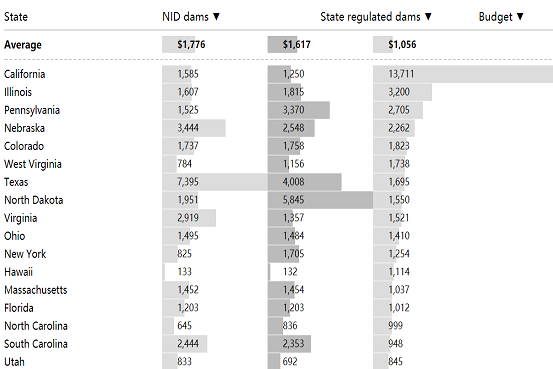
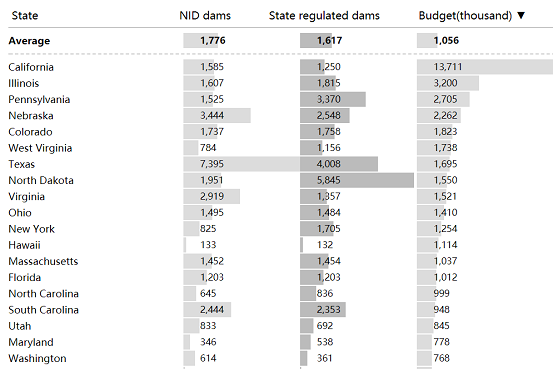
fix

diff --git a/portfolio/Missouri hidden dams/experiment - Copy.html b/portfolio/Missouri hidden dams/experiment - Copy.html
@@ -55,6 +55,7 @@
 * Includes: jquery.ui.core.css, jquery.ui.resizable.css, jquery.ui.selectable.css, jquery.ui.accordion.css, jquery.ui.autocomplete.css, jquery.ui.button.css, jquery.ui.datepicker.css, jquery.ui.dialog.css, jquery.ui.menu.css, jquery.ui.progressbar.css, jquery.ui.slider.css, jquery.ui.spinner.css, jquery.ui.tabs.css, jquery.ui.tooltip.css
 * Copyright 2013 jQuery Foundation and other contributors Licensed MIT */
 
+
 .g-table {
   margin: 6px 10px 20px 10px;
   font: 11px/15px sans-serif;
@@ -120,7 +121,8 @@ transition: top .5s ease;
 }
 
 .g-table-bar {
-position: absolute;
+position: relative;
+width:100%;
 height: 100%;
 background: rgba(120,120,120,.5);
 }
@@ -159,7 +161,7 @@ color: #000;
 .g-table-body:not(:last-of-type) {
 border-bottom: dashed 1px #ccc;
 }
-.g-table-column-ascending:after,
+/*.g-table-column-ascending:after,
 .g-table-column-descending:after {
   padding-left: 4px;
 }
@@ -170,9 +172,10 @@ border-bottom: dashed 1px #ccc;
 
 .g-table-column-descending:after {
   content: "\0025BC";
-}
+}*/
 .g-table-cell {
 width: 140px;
+/*width: 25%;*/
 }
 
 .g-table-cell-state {
@@ -182,18 +185,24 @@ width: 210px;
 
 .g-table-cell- {
 width: 320px;
+/*width: 25%;*/
 }
 
 .g-table-cell-Budget {
 width: 320px;
+/*width: 45%;*/
 }
 
 .g-table-cell-NIDdam .g-table-bar,
 .g-table-cell-Budget .g-table-bar {
 background: rgba(185,185,185,.5);
+width: 320px;
+/*width: 30%;*/
 }
+
 .g-instruction {
-margin: 34px 10px 0 0;
+margin: 0 0 0 0;
+margin-bottom: 0;
 font: oblique 11px sans-serif;
 color: #aaa;
 text-align: right;
@@ -492,7 +501,7 @@ p.body {
     <p class="body domine">Missouri has 1457 high-hazard dams last year, leading the nation since 2010. Nearly 1000 of them are unregulated.
 No one is required to inspect or repair them, even if the failure may kill people.
 Missouri dam law exempts the dams that are less than 35 feet tall, agriculture dams and federal-regulated dams. There has been no change in Missouri dam regulation since the 2005 Taum Sauk Dam Failure. Several bills tried to modify the dam safety law to increase the number of regulated dams, but none of them passed. Thus, around 4700 dams remain in limbo.</p>
-    <div class="byline">By <a href="/accounts/profiles/xxxxx/">xxxxxxxx</a>, <a href="/accounts/profiles/xxxxx/">xxxxxx</a> | December 3, 2017</div>
+    <div class="byline">By <a href="https://twitter.com/Ypq7L5qEx3gSgjB">Chen Chang</a> | December 3, 2017</div>
     <hr />
 </div>
 
@@ -501,9 +510,18 @@ Missouri dam law exempts the dams that are less than 35 feet tall, agriculture d
 
 
 <!-- /////////////////////// BEGIN SINGLE LAYER///////////////////////////-->
-<p>Hazardous dams in Missouri</p>
+<div class="single">
+			<div class="graphic">
+        <h4>Hazardous dams in Missouri</h4>
+<p class="body">Find the hazardous dams in Missouri. Missouri has 1457 high-hazard dams in 2016. Around 1000 high-hazard dams are not regulated. High-hazard means the failure of dams may kill people. Significant hazard means the failure of dams may cause property loss.</p>
 <iframe width="100%" height="520" frameborder="0" src="https://zorachang.carto.com/builder/515018cf-0736-4608-843d-dab403e132c3/embed" allowfullscreen webkitallowfullscreen mozallowfullscreen oallowfullscreen msallowfullscreen></iframe>
-<p>Dam Safety Program state by state</p>
+</div>
+</div>
+
+<div class="single">
+			<div class="graphic">
+<h4>Dam Saftey Program in different states</h4>
+<p class="body">Find the inventoried dams, state regulated dams and budget in Missouri and compare with other states. NID dams means the count of dams in the 2016 National Inventory of Dams (NID) database. Only 13% of dams in Missouri are regulated by the Department of Natural Resources, with a budget of around five thousand dollars in 2016. </p>
 <div class="g-graphic">
 <div class="g-instruction">
 Click a column header to sort.
@@ -511,20 +529,25 @@ Click a column header to sort.
 <div class="g-table">
 <div class="g-table-head">
 <div class="g-table-row">
-<div data-key="state" class="g-table-cell" style="width:210px;">
-<div class="g-table-column" style="position:absolute;bottom:0;">State</div>
+  <!-- <div data-key="state" class="g-table-cell" style="width:210px;"> -->
+<div data-key="state" class="g-table-cell">
+<!-- <div class="g-table-column" style="position:absolute;bottom:0;">State</div> -->
+<div class="g-table-column" style="position: absolute; padding-left:4px;bottom:0;">State</div>
 </div>
 
-<div data-key="Budget" class="g-table-cell" style="width:210px;">
-<div class="g-table-column" style="position:absolute;bottom:0;">NID dams</div>
+<div data-key="NIDdam" class="g-table-cell" style="width:140px;">
+<div class="g-table-column" style="position: absolute;padding-left: 5em;bottom:0;">NID dams</div>
 </div>
 
-<div data-key="Budget" class="g-table-cell" style="width:210px;">
-<div class="g-table-column" style="position:absolute;bottom:0;">State regulated dams</div>
+<div data-key="StateRegulatedDam" class="g-table-cell" style="width:210px;">
+<div class="g-table-column" style="position: absolute;padding-left: 2.5em ;bottom:0;">State regulated dams</div>
 </div>
 
-<div data-key="Budget" class="g-table-cell" style="width:210px;">
-<div class="g-table-column" style="position:absolute;bottom:0;">Budget</div>
+<div data-key="Budget" class="g-table-cell">
+<div class="g-table-column" style="position: absolute;padding-left: 2px;bottom:0;">Budget(thousand)</div>
+
+<!-- <div data-key="Staff" class="g-table-cell" style="width:210px;">
+<div class="g-table-column" style="position:absolute;bottom:0;">Staff</div> -->
 </div>
 
 <!-- <div data-key="Budget" class="g-table-column" style="font-size:13px;line-height:32px;">NID dams<div>
@@ -537,6 +560,7 @@ Click a column header to sort.
 <div class="g-table-body g-table-body-states"></div>
 </div>
 </div>
+
 <script src="https://static01.nyt.com/newsgraphics/2013/09/24/health-care-premiums/fa87fdc4145b4667df3cf9db68a19325f19a884d/lib.js"></script>
 <script>(function() {
 
@@ -552,12 +576,12 @@ var columns = [
 var sortKey = "Budget",
 sortOrder = d3.ascending;
 
-var formatCurrency = d3.format("$,.0f"),
+var formatCurrency = d3.format(",.0f"),
 formatNumber = d3.format(",.0f");
 
 
 var x = d3.scale.linear()
-.domain([0, 13100])
+.domain([0, 13711])
 .range([0, 320]);
 // .domain([0, 51000000)
 // .range([0, 320]);
@@ -639,4 +663,105 @@ d.Budget = +d.Budget;
 return d;
 }
 
+
 })()</script>
+</div>
+</div>
+
+<div class="single">
+  <!-- 1-2-3 PANEL GRAPHIC -->
+
+    <div id="graphic">
+      <div class="graphic">
+          <h4>What if the bills to strengthen dam regulation had been passed?</h4>
+          <!-- LEAVE THIS PART ALONE...IT SETS UP THE NUMBERING AT THE TOP AUTOMATICALLY -->
+          						<div class="tab-wrapper">
+          						    <div id="panel_tabs" class="tab-nav"></div>
+          						    <div class="tab-nav">
+          						       <a id="next_panel" href="#">Next&nbsp;&raquo;</a>
+          						    </div>
+          						    <div class="clear"></div>
+          						</div>
+
+          						<div class="panel-line"></div>
+
+          						<!-- PUT YOUR INFORMATION IN THIS SECTION. COPY THE WHOLE PANEL DIV IF YOU NEED TO ADD ANOTHER PANEL AND PASTE IT BELOW THE LAST PANEL IN THIS GROUP -->
+                      <div id="panel_graphic">
+      								<div class="panel">
+      									<p class="body">The state statutes exempt the dams that are less than 35 feet tall, agriculture dams and federal-regulated dams. Red circles represent high-hazard dams while pink circles represent regulated dams. Currently only 697 dams are regulated in Missouri.</p>
+      									<img src="image/reg.jpg" alt=""/>
+      								</div>
+
+      								<div class="panel">
+      									<p class="body">If SB 1236 sponsered by Kevin Engler had been passed in 2007, regulated dams would have increased to 2838.</p>
+      									<img src="image/sb1236.jpg" alt=""/>
+      								</div>
+
+      								<div class="panel">
+      									<p class="body">If HB 1994 sponserd by Walt Bivins had been passed in 2008, regulated dams would have increased to 2747.</p>
+      									<img src="image/hb1994.jpg" alt=""/>
+
+                        <p class="body">However, Missouri Farm Bureau Federation & Missouri Land Improvement Contractors Association opposed to the bills to modify the dam safety law. The current state statutes exempt the agriculture dams. The last proposal to strengthen dam regulation failed in 2009.</p>
+      								</div>
+
+          								<!-- <div class="panel">
+          									<p class="body">Tell us more here about what is going on in this slide.</p>
+          									<img src="images/dow3.jpg" alt=""/>
+          								</div>
+
+          								<div class="panel">
+          									<p class="body">Same thing here and here about this slide.</p>
+          									<img src="images/dow4.jpg" alt=""/>
+          								</div> -->
+          						</div>
+          				</div>
+          			</div>
+
+          			<script>
+
+          			                if ($('#graphic').find('#panel_graphic').length > 0){
+                                      $('#graphic').find('#panel_graphic').cycle({
+                                          fx:     'fade',
+                                          speed:  250,
+                                          timeout:0,
+                                          nowrap: true,
+                                          next:   '#next_panel',
+                                          pager:  '#panel_tabs'
+                                      });
+                                      $('#next_panel').click(function() {
+                                          var num_panels = $(this).parent().siblings('#panel_tabs').find('a').length,
+                                              curr_idx = $(this).parent().siblings('#panel_tabs').find('.activeSlide').index();
+
+                                          if (num_panels-1 == curr_idx) {
+                                              if ($(this).hasClass('last')) {
+                                                  $(this).parent().siblings('#panel_tabs').find('a').first().click();
+                                                  $(this).removeClass('last').html('Next&nbsp;&raquo;');
+                                              } else {
+                                                  $(this).addClass('last').html('Start over');
+                                              }
+                                          } else {
+                                              $(this).removeClass('last').html('Next&nbsp;&raquo;');
+                                          }
+                                      });
+
+                                      $('#panel_tabs').children('a').click(function() {
+                                          if ($(this).index() == $(this).parent().children('a').length-1) {
+                                              $('#next_panel').addClass('last').html('Start over');
+                                          } else {
+                                              $('#next_panel').removeClass('last').html('Next&nbsp;&raquo;');
+                                          }
+                                      });
+                                  }
+                      </script>
+          		<!-- END 1-2-3 PANEL GRAPHIC -->
+          		</div>
+
+          		<!-- ///////////////////////END SINGLE LAYER///////////////////////////-->
+
+
+          <!-- ////////////////////////////////////////////////////////END OF GRAPHIC TEMPLATE ELEMENTS ///////////////////////////////////////////////////////// -->
+
+
+          	</div>
+          </body>
+          </html>
